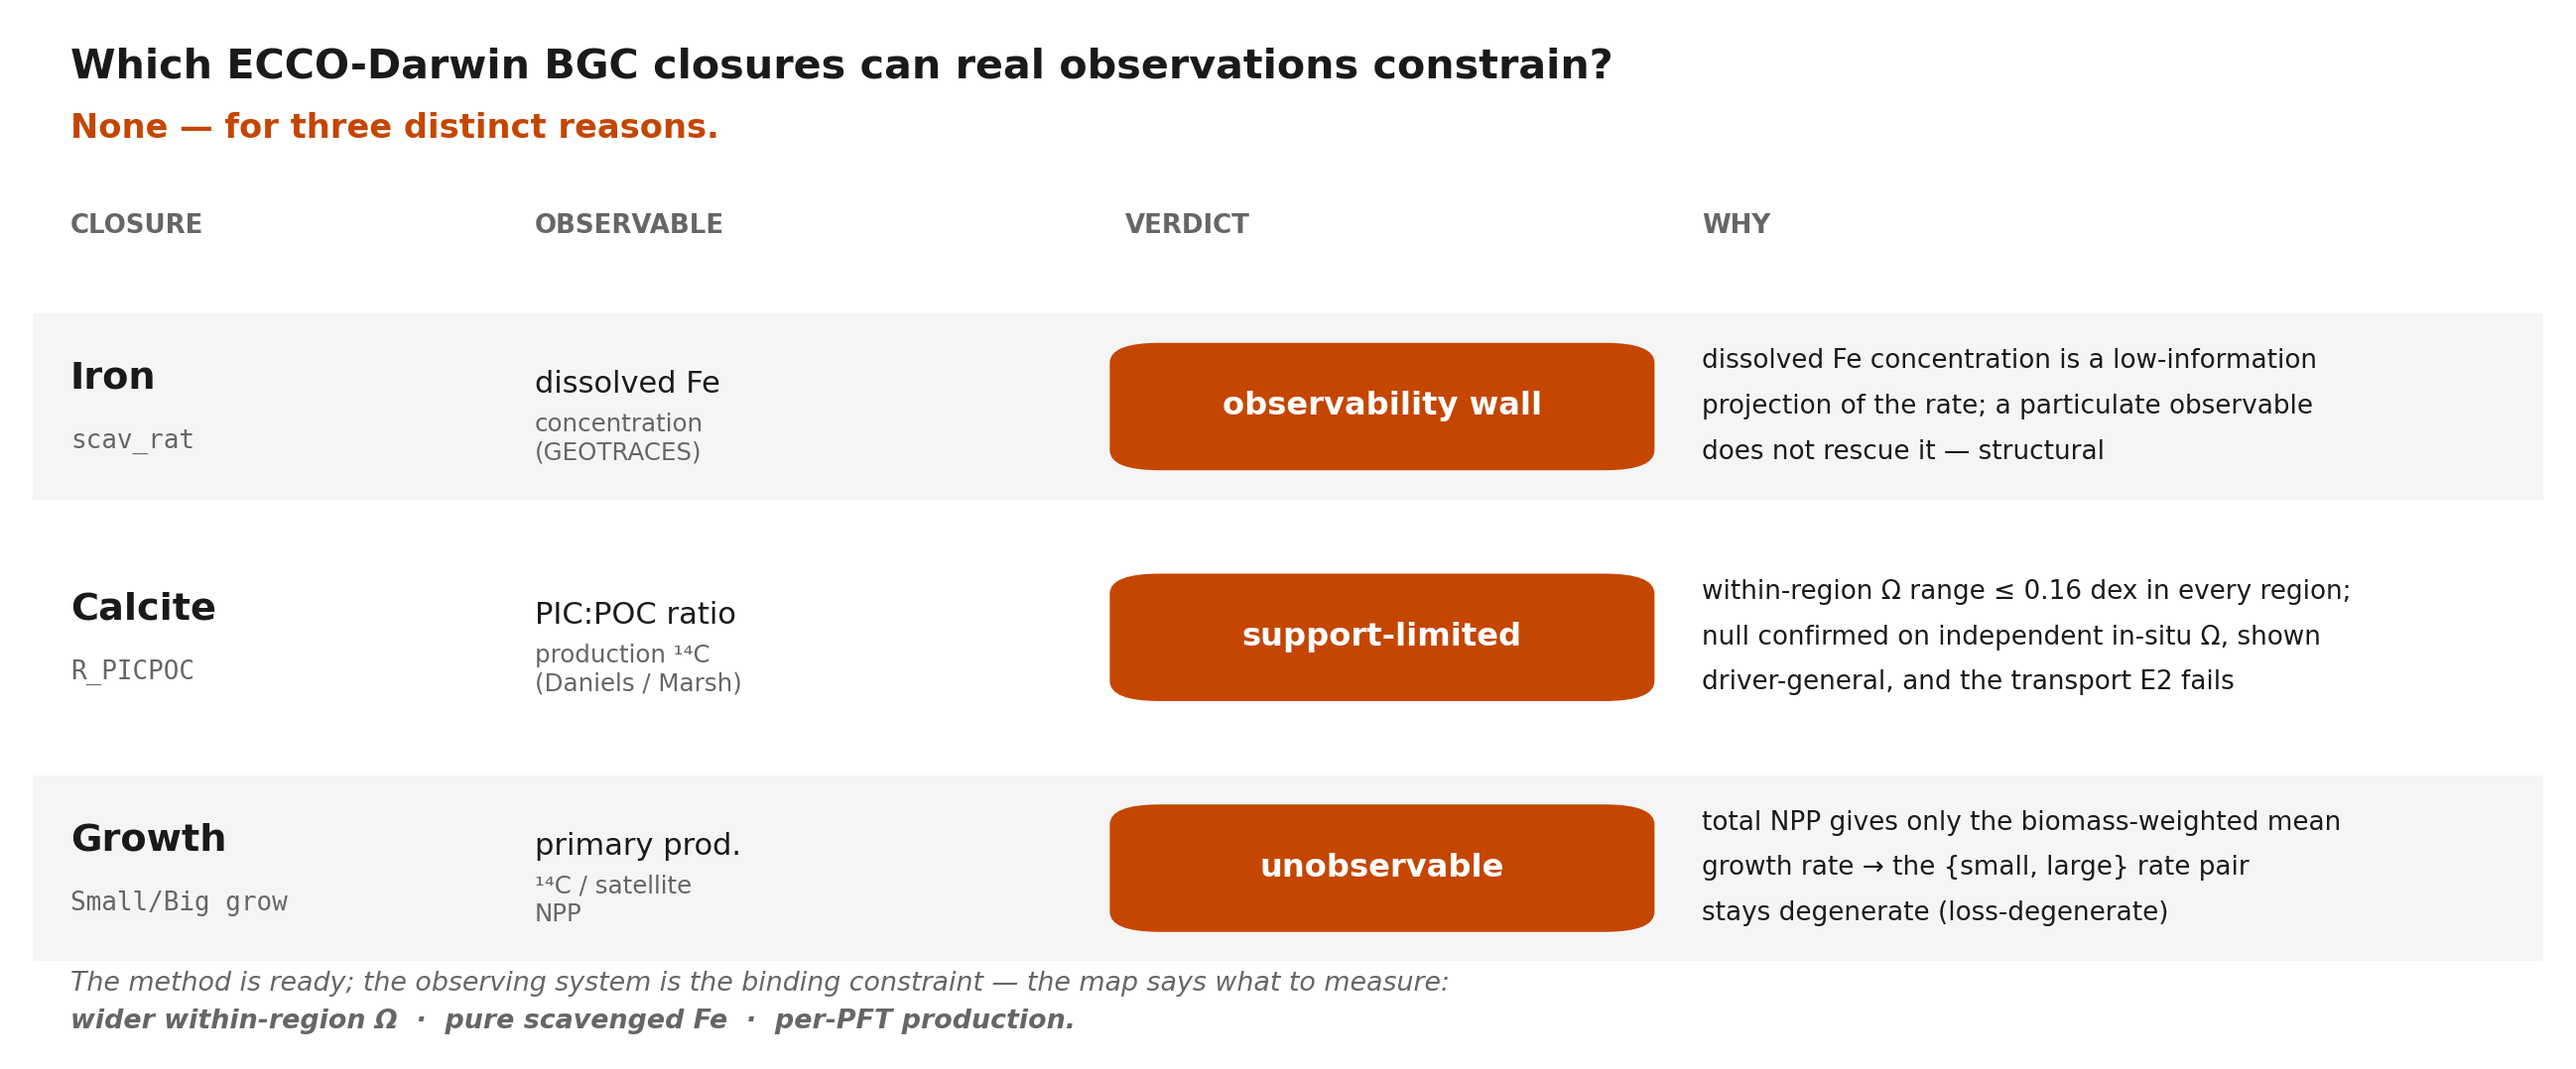
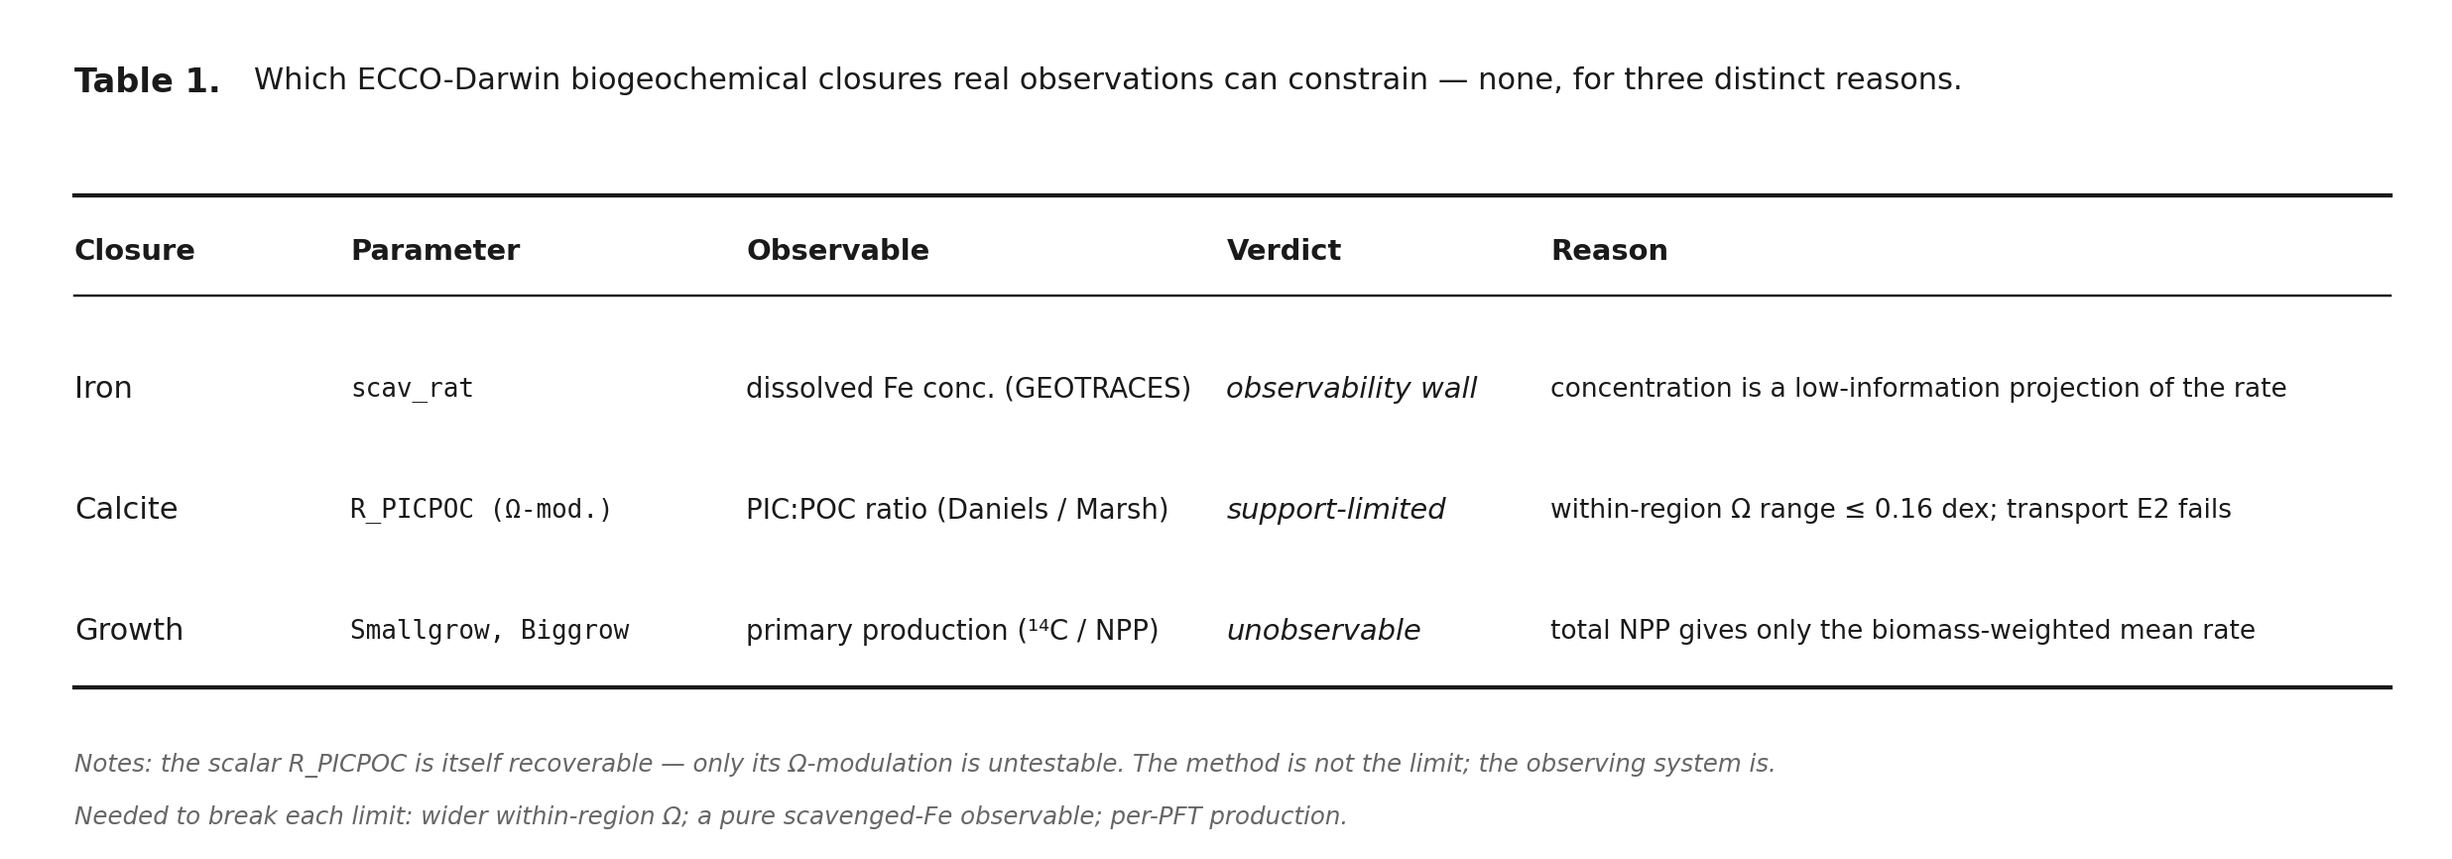
docs(track2): fig1 as a formal scientific table (no color) + fig2 threshold line on top of bars
Per feedback: (1) rebuild fig1 as a formal booktabs-style table (top/header/bottom
rules, no vertical rules, no color fills or shading; plain ink text, monospace
params, italic verdicts, Table-1 caption + notes); (2) raise the fig2 dashed
identifiability-threshold line above the bars (zorder) so it renders on top of the
pooled bar instead of behind it.

diff --git a/scripts/make_map_figures.py b/scripts/make_map_figures.py
@@ -55,58 +55,47 @@ def _marsh_pairs():
 
 # --------------------------------------------------------------------------- #
 def fig1_map():
-    fig = plt.figure(figsize=(11.5, 4.6)); ax = fig.add_axes([0, 0, 1, 1]); ax.axis("off")
+    """Formal scientific table (booktabs rules, no color fills)."""
+    fig = plt.figure(figsize=(11, 3.7)); ax = fig.add_axes([0, 0, 1, 1]); ax.axis("off")
     ax.set_xlim(0, 1); ax.set_ylim(0, 1)
-    # columns (left edge of each) — chosen wide apart, verified against label lengths
-    X_NAME, X_OBS, X_VB, X_WHY = 0.015, 0.20, 0.435, 0.665
-    VBW, VBH = 0.205, 0.115
+    L, R = 0.02, 0.985  # rule extent
+    XC, XP, XO, XV, XW = 0.02, 0.135, 0.30, 0.50, 0.635  # column anchors
+    cols = [(XC, "Closure"), (XP, "Parameter"), (XO, "Observable"),
+            (XV, "Verdict"), (XW, "Reason")]
     rows = [
-        ("Iron", "scav_rat", "dissolved Fe", "concentration\n(GEOTRACES)",
-         "observability wall",
-         ["dissolved Fe concentration is a low-information",
-          "projection of the rate; a particulate observable",
-          "does not rescue it — structural"]),
-        ("Calcite", "R_PICPOC", "PIC:POC ratio", "production ¹⁴C\n(Daniels / Marsh)",
-         "support-limited",
-         ["within-region Ω range ≤ 0.16 dex in every region;",
-          "null confirmed on independent in-situ Ω, shown",
-          "driver-general, and the transport E2 fails"]),
-        ("Growth", "Small/Big grow", "primary prod.", "¹⁴C / satellite\nNPP",
-         "unobservable",
-         ["total NPP gives only the biomass-weighted mean",
-          "growth rate → the {small, large} rate pair",
-          "stays degenerate (loss-degenerate)"]),
+        ("Iron", "scav_rat", "dissolved Fe conc. (GEOTRACES)", "observability wall",
+         "concentration is a low-information projection of the rate"),
+        ("Calcite", "R_PICPOC (Ω-mod.)", "PIC:POC ratio (Daniels / Marsh)", "support-limited",
+         "within-region Ω range ≤ 0.16 dex; transport E2 fails"),
+        ("Growth", "Smallgrow, Biggrow", "primary production (¹⁴C / NPP)", "unobservable",
+         "total NPP gives only the biomass-weighted mean rate"),
     ]
-    ax.text(X_NAME, 0.955, "Which ECCO-Darwin BGC closures can real observations constrain?",
-            fontsize=13.5, weight="bold", color=INK)
-    ax.text(X_NAME, 0.895, "None — for three distinct reasons.", fontsize=11, color=C["bad"], weight="bold")
-    hdr_y = 0.80
-    for x, h in [(X_NAME, "CLOSURE"), (X_OBS, "OBSERVABLE"), (X_VB, "VERDICT"), (X_WHY, "WHY")]:
-        ax.text(x, hdr_y, h, fontsize=8.5, weight="bold", color=MUTED)
-    band_top, band_h, gap = 0.72, 0.185, 0.045
-    for i, (name, param, obs1, obs2, verdict, why) in enumerate(rows):
-        yc = band_top - i * (band_h + gap) - band_h / 2
-        if i % 2 == 0:
-            ax.add_patch(mpl.patches.Rectangle((0, yc - band_h / 2), 1, band_h,
-                         facecolor="#F5F5F5", edgecolor="none", zorder=0))
-        ax.text(X_NAME, yc + 0.028, name, fontsize=12.5, weight="bold", color=INK, va="center")
-        ax.text(X_NAME, yc - 0.035, param, fontsize=8.5, color=MUTED, va="center", family="monospace")
-        ax.text(X_OBS, yc + 0.022, obs1, fontsize=10, color=INK, va="center")
-        ax.text(X_OBS, yc - 0.032, obs2, fontsize=8, color=MUTED, va="center")
-        ax.add_patch(FancyBboxPatch((X_VB, yc - VBH / 2), VBW, VBH,
-                     boxstyle="round,pad=0.006,rounding_size=0.02",
-                     facecolor=C["bad"], edgecolor="none", zorder=2))
-        ax.text(X_VB + VBW / 2, yc, verdict, fontsize=10.5, color="white", weight="bold",
-                ha="center", va="center", zorder=3)
-        for j, line in enumerate(why):
-            ax.text(X_WHY, yc + 0.045 - j * 0.045, line, fontsize=8.6, color=INK, va="center")
-    ax.text(X_NAME, 0.045,
-            "The method is ready; the observing system is the binding constraint — the map says what to measure:",
-            fontsize=8.8, style="italic", color=MUTED)
-    ax.text(X_NAME, 0.008,
-            "wider within-region Ω  ·  pure scavenged Fe  ·  per-PFT production.",
-            fontsize=8.8, style="italic", weight="bold", color=MUTED)
-    fig.savefig(OUT / "fig1_identifiability_map.png", bbox_inches="tight", pad_inches=0.15)
+    # caption (formal "Table N." style, left-aligned, above the rule)
+    ax.text(L, 0.95, "Table 1.", fontsize=11, weight="bold", color=INK, va="top")
+    ax.text(L + 0.075, 0.95,
+            "Which ECCO-Darwin biogeochemical closures real observations can constrain — none, "
+            "for three distinct reasons.", fontsize=10, color=INK, va="top")
+    y_toprule, y_header, y_midrule = 0.79, 0.72, 0.665
+    y_rows = [0.55, 0.40, 0.25]
+    y_botrule = 0.18
+    # rules (booktabs: heavier top/bottom, lighter mid; no vertical rules, no fills)
+    ax.plot([L, R], [y_toprule, y_toprule], color=INK, lw=1.4)
+    ax.plot([L, R], [y_midrule, y_midrule], color=INK, lw=0.8)
+    ax.plot([L, R], [y_botrule, y_botrule], color=INK, lw=1.4)
+    for x, h in cols:
+        ax.text(x, y_header, h, fontsize=9.5, weight="bold", color=INK, va="center")
+    for (name, param, obs, verdict, reason), y in zip(rows, y_rows):
+        ax.text(XC, y, name, fontsize=10, color=INK, va="center")
+        ax.text(XP, y, param, fontsize=8.5, color=INK, va="center", family="monospace")
+        ax.text(XO, y, obs, fontsize=9, color=INK, va="center")
+        ax.text(XV, y, verdict, fontsize=9.5, color=INK, va="center", style="italic")
+        ax.text(XW, y, reason, fontsize=8.7, color=INK, va="center")
+    ax.text(L, 0.10, "Notes: the scalar R_PICPOC is itself recoverable — only its Ω-modulation is "
+            "untestable. The method is not the limit; the observing system is.", fontsize=8,
+            style="italic", color=MUTED, va="top")
+    ax.text(L, 0.035, "Needed to break each limit: wider within-region Ω; a pure scavenged-Fe "
+            "observable; per-PFT production.", fontsize=8, style="italic", color=MUTED, va="top")
+    fig.savefig(OUT / "fig1_identifiability_map.png", bbox_inches="tight", pad_inches=0.12)
     plt.close(fig)
 
 
@@ -126,9 +115,9 @@ def fig2_calcite(pairs):
     ax1.barh(ys, vals, color=cols, height=0.62, zorder=3)
     for y, v in zip(ys, vals):
         ax1.text(v + 0.008, y, f"{v:.2f}", va="center", ha="left", fontsize=9.5, color=INK)
-    ax1.axvline(THRESH, ls=(0, (4, 3)), color=C["bad"], lw=1.8, zorder=2)
+    ax1.axvline(THRESH, ls=(0, (4, 3)), color=C["bad"], lw=1.8, zorder=6)
     ax1.text(THRESH + 0.016, 2.35, "identifiability\nthreshold\n(0.30 dex)",
-             color=C["bad"], fontsize=8.5, ha="left", va="center", weight="bold")
+             color=C["bad"], fontsize=8.5, ha="left", va="center", weight="bold", zorder=7)
     ax1.set_yticks(ys)
     ax1.set_yticklabels([f"{LBL[k]}  (n={pairs[k][0].size})" for k in order]
                         + ["pooled (between-biome)"], fontsize=9.5)
